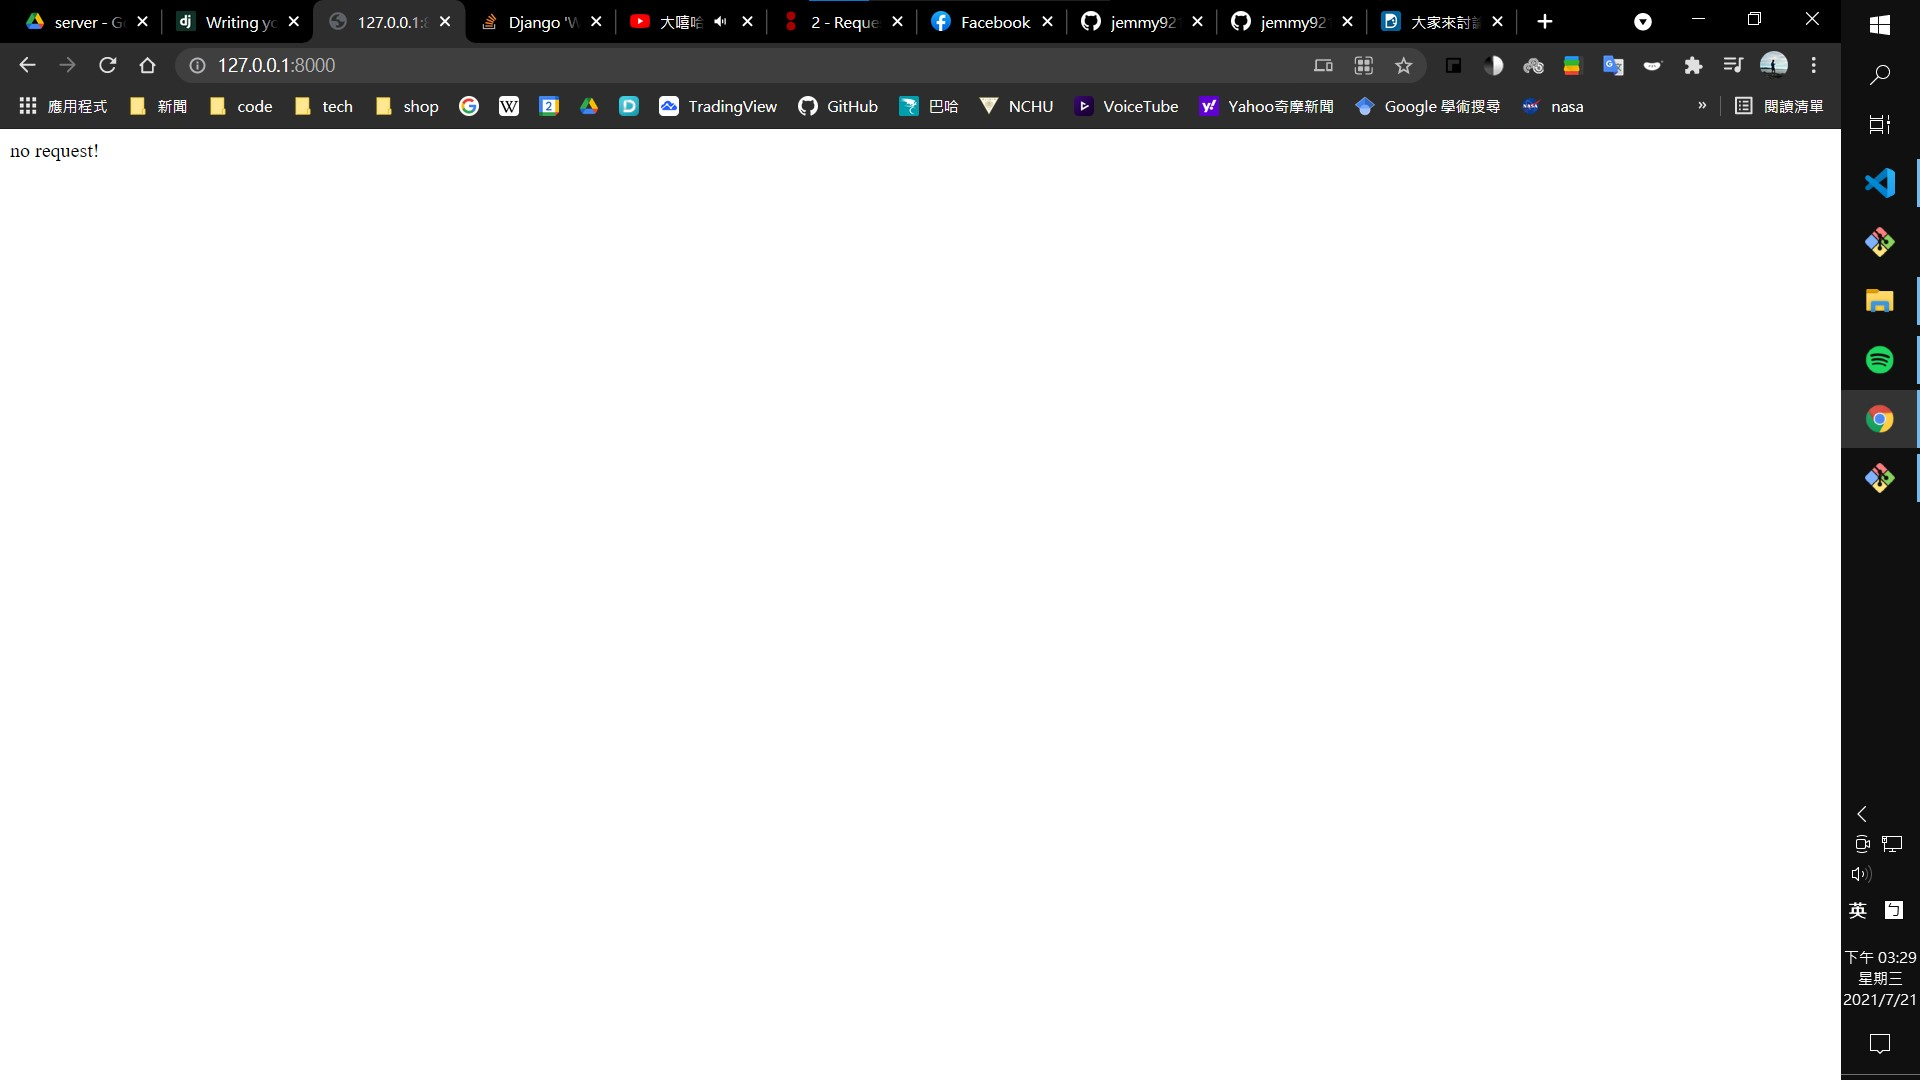
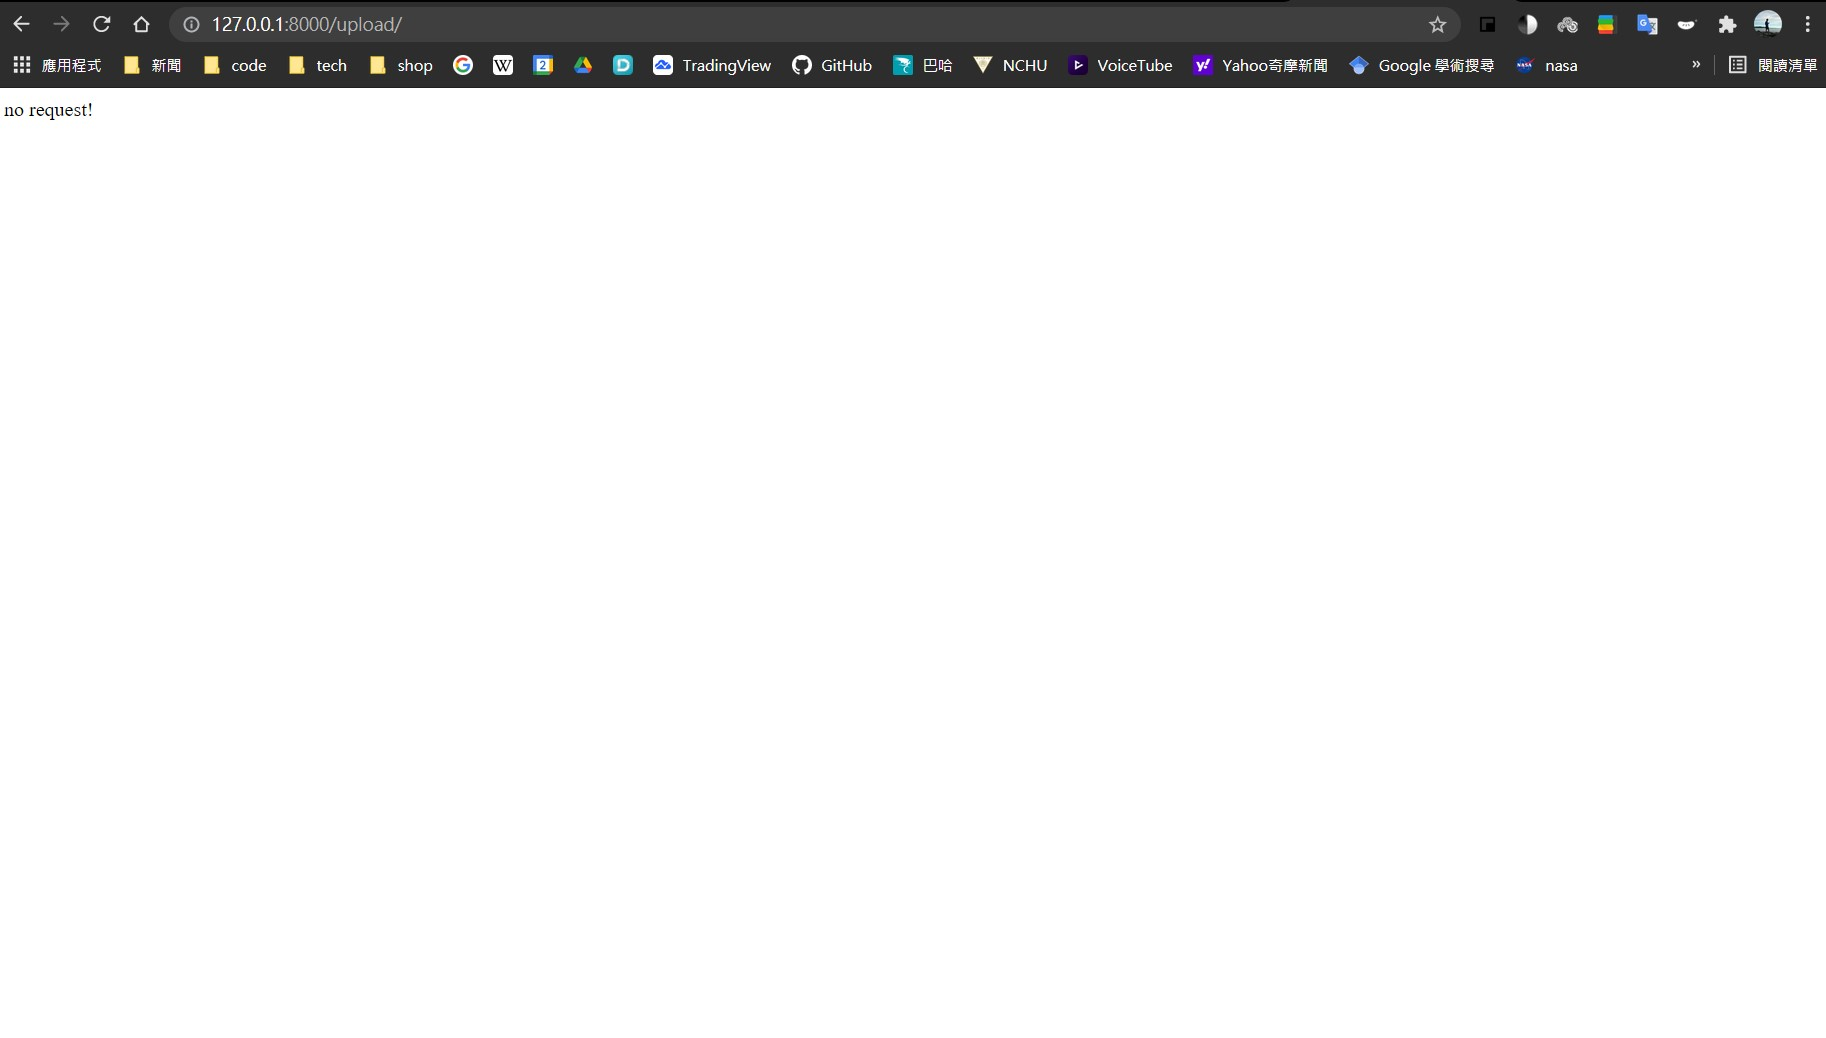
urls

Changed region(s): [[0.0, 0.0, 1.0, 1.0]]

diff --git a/mysite/urls.py b/mysite/urls.py
@@ -18,6 +18,6 @@ from django.urls import path,include
 
 urlpatterns = [
     path('admin/', admin.site.urls),
-    path('' , include('steels.urls')),
+    path('upload/' , include('steels.urls')),
     
 ]
